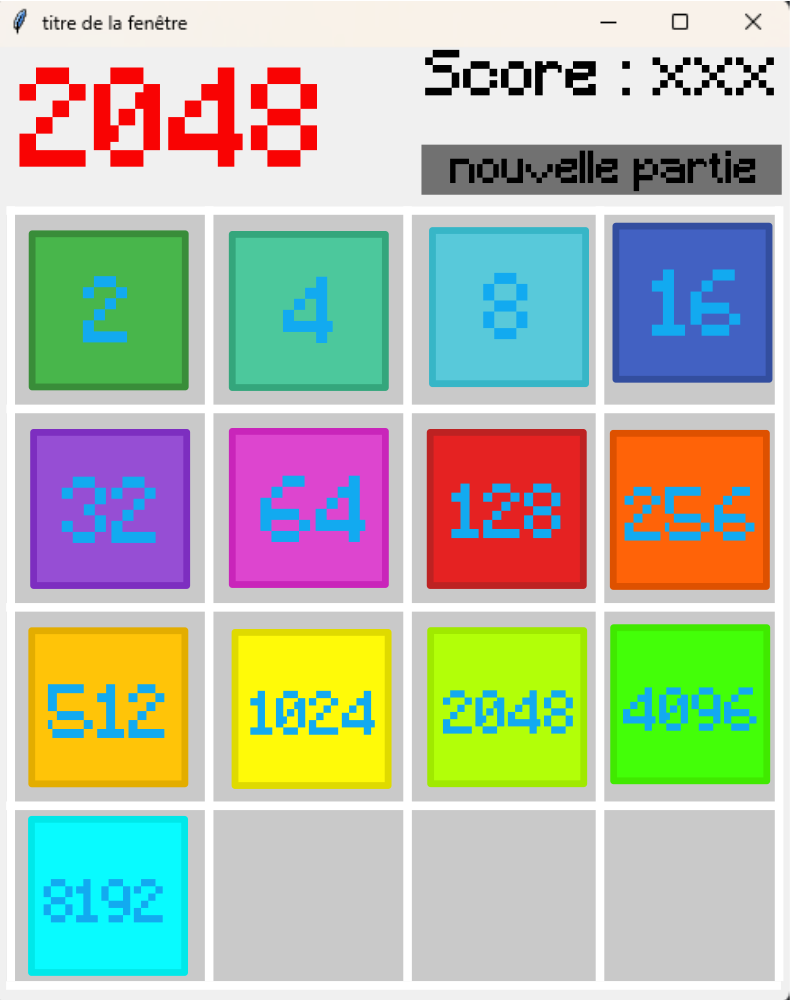
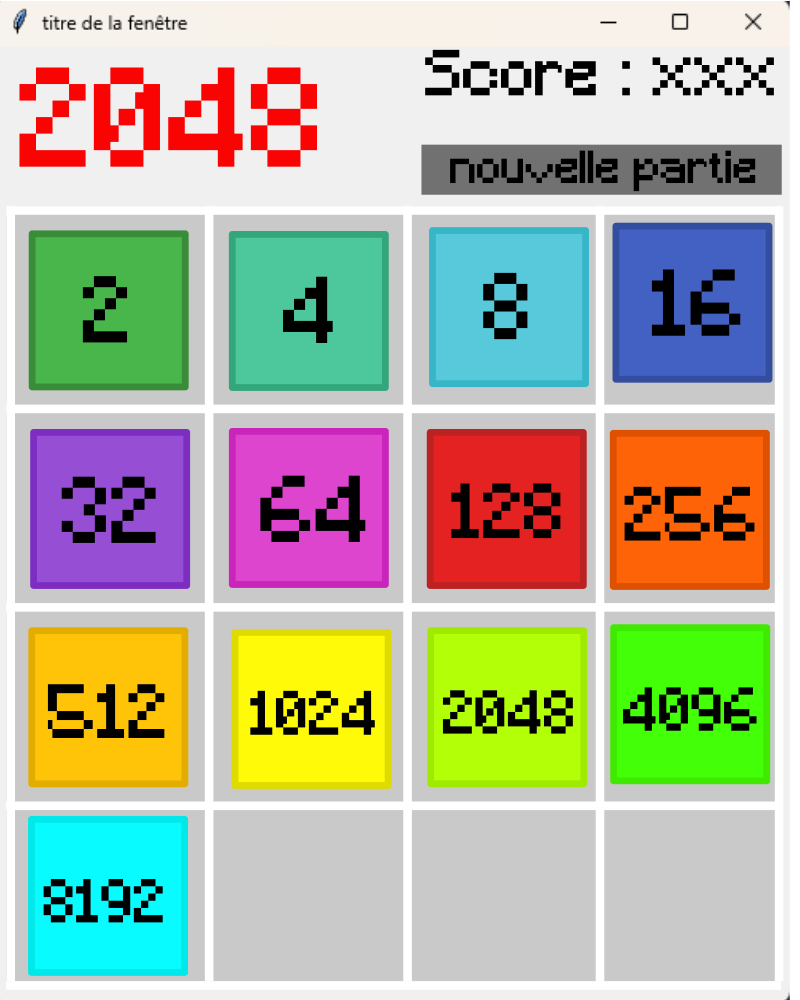
version 1.3

diff --git a/gfx.py b/gfx.py
@@ -1,9 +1,8 @@
 # Graphics of the game
 # Author : Théo Läderach
-# Date : 05.02.2026
-# Version : 1.2
+# Date : 12.02.2026
+# Version : 1.3
 import core
-core.start_game()
 
 from tkinter import *
 import json
@@ -32,6 +31,7 @@ try:
 except:
     DEFAULT_FONT = "Arial"
 
+
 # Function who place the text on the front-end grid 
 # by using the back-end grid and the dictionnary.
 def render_grid_txt():
@@ -50,65 +50,121 @@ def render_grid_color():
             # replace every item in the list using the disctionnary
             visualGridColor[y][x] = color_dict.get(str(core.grid[y][x]), "#FFFFFF")
 
-# Create the Front-end grid referring to the back-end grid
-visualGridColor = core.create_grid(core.side)
-visualGridTxt = core.create_grid(core.side)
+
+def refresh_labels_grid():
+    render_grid_txt()
+    render_grid_color()
+    for line in range(len(visualGridTxt)):
+        for col in range(len(visualGridTxt[line])):
+            background_color,border_color=visualGridColor[line][col]
+            labels[line][col].config(text =visualGridTxt[line][col],
+                                        bg=background_color)
+            labelBackground[line][col].config(bg=border_color)
+            
+
+def refresh_score():
+    score_num_lbl.config(text=core.score)
+
+def refresh_screen():
+    refresh_labels_grid()
+    refresh_score()
 
 
-render_grid_txt() # Initialise the text front-end grid
-render_grid_color() # Initialise the color front-end grid
+def start_game():
+    global visualGridColor, visualGridTxt
+    
+    core.start_game()
 
-dx=5 # horizontal distance between labels
-dy=5 # vertical distance between labels
+    visualGridColor = core.create_grid(core.SIDE,fill=0)
+    visualGridTxt = core.create_grid(core.SIDE,fill=0)
 
-labels = core.create_grid(core.side)
+    render_grid_txt() # Initialise the text front-end grid
+    render_grid_color() # Initialise the color front-end gridgfx.open_windows()
+        
+    open_windows()
 
-main=Tk()
-main.title(txt_dict.get("title","2048"))
-main.geometry("450x550")
+def open_windows():
+    global score_num_lbl,labels,labelBackground
 
+    
+    # Create the Front-end grid referring to the back-end grid
+    
+    dx=5 # horizontal distance between labels
+    dy=5 # vertical distance between labels
 
-top_fr =Frame(main)
-top_fr.pack(side=TOP, fill=X)
+    # Grid of the labels on the screen
+    labels = core.create_grid(core.SIDE, fill=None)
+    labelBackground = core.create_grid(core.SIDE, fill=None)
 
-left_fr = Frame(top_fr)
-left_fr.pack(side=LEFT,padx=30,pady=30,ipady=0,ipadx=0)
-
-title_lbl = Label(left_fr, text=txt_dict.get("title","2048"),font=(DEFAULT_FONT,52,"bold"),fg=color_dict.get("title","#df0000"))
-title_lbl.pack()
-
-
-right_fr = Frame(top_fr)
-right_fr.pack(side=RIGHT, fill=X,padx=30,pady=20,ipady=0)
-
-score_fr = Frame(right_fr)
-score_fr.pack()
-
-score_txt_lbl = Label(score_fr,text="Score : ",font=(DEFAULT_FONT,18))
-score_txt_lbl.pack(side=LEFT)
-
-score_num_lbl = Label(score_fr,text="xxx",font=(DEFAULT_FONT,18,"bold"))
-score_num_lbl.pack(side=RIGHT)
-
-new_btn = Button(right_fr,text="New Game",font=(DEFAULT_FONT,12))
-new_btn.pack()
-
-game_fr = Frame(main, bg="#D0D4D4")
-game_fr.pack(fill=Y, side=BOTTOM, padx=10,pady=10)
-
-# Create the pawn on the windows using the grid
-for line in range(len(visualGridTxt)):
-    for col in range(len(visualGridTxt[line])):
-        background_color,border_color=visualGridColor[line][col]
-        case = Frame(game_fr,bg=border_color)
-        case.grid (row=line+1,column=col,padx=dx,pady=dy)
-        labels[line][col] = Label (case,
-                                    text =visualGridTxt[line][col],
-                                    width=6,
-                                    height=3,
-                                    font=(DEFAULT_FONT, 15),
-                                    bg=background_color)
-        labels[line][col].pack(padx=3,pady=3)
+    main=Tk()
+    main.title(txt_dict.get("title","2048"))
+    main.geometry("450x580")
 
 
-main.mainloop()
+    top_fr =Frame(main)
+    top_fr.pack(side=TOP, fill=X)
+
+    left_fr = Frame(top_fr)
+    left_fr.pack(side=LEFT,padx=30,pady=30,ipady=0,ipadx=0)
+
+    title_lbl = Label(left_fr,
+                       text=txt_dict.get("title","2048"),
+                       font=(DEFAULT_FONT,52,"bold"),
+                       fg=color_dict.get("title","#f90303"))
+    title_lbl.pack()
+
+
+    right_fr = Frame(top_fr)
+    right_fr.pack(side=RIGHT, fill=X,padx=0,pady=0,ipady=0)
+
+    score_fr = Frame(right_fr)
+    score_fr.pack()
+
+    score_txt_lbl = Label(score_fr,
+                          text="Score : "
+                          ,font=(DEFAULT_FONT,18))
+    score_txt_lbl.pack(side=LEFT)
+
+    score_num_lbl = Label(score_fr,
+                          text="xxx",
+                          font=(DEFAULT_FONT,18,"bold"))
+    score_num_lbl.pack(side=RIGHT)
+
+    new_btn = Button(right_fr,
+                     text="New Game",
+                     font=(DEFAULT_FONT,12))
+    new_btn.pack()
+
+    game_fr = Frame(main, 
+                    bg="#D0D4D4")
+    game_fr.pack(fill=Y, side=BOTTOM, padx=10,pady=10)
+
+    # Create the pawn on the windows using the grid
+    for line in range(len(visualGridTxt)):
+        for col in range(len(visualGridTxt[line])):
+
+            background_color,border_color=visualGridColor[line][col]
+
+            labelBackground[line][col] = Frame(game_fr,bg=border_color)
+            labelBackground[line][col].grid(row=line+1,column=col,padx=dx,pady=dy)
+
+            labels[line][col] = Label (labelBackground[line][col],
+                                        text =visualGridTxt[line][col],
+                                        width=5,
+                                        height=3,
+                                        font=(DEFAULT_FONT, 19),
+                                        bg=background_color
+                                        )
+            
+            labels[line][col].pack(padx=5,pady=5)
+
+    main.bind("<KeyRelease-a>",func=core.leftPressed)
+    main.bind("<KeyRelease-Left>",func=core.leftPressed)
+    main.bind("<KeyRelease-w>",func=core.upPressed)
+    main.bind("<KeyRelease-Up>",func=core.upPressed)
+    main.bind("<KeyRelease-d>",func=core.rightPressed)
+    main.bind("<KeyRelease-Right>",func=core.rightPressed)
+    main.bind("<KeyRelease-s>",func=core.downPressed)
+    main.bind("<KeyRelease-Down>",func=core.downPressed)
+
+    main.mainloop()

diff --git a/core.py b/core.py
@@ -1,19 +1,40 @@
 # Mechanics of the game
 # Author : Théo Läderach
-# Date : 05.02.2026
-# Version : 1.1
+# Date : 12.02.2026
+# Version : 1.3
 
-def create_grid(side):
+
+SIDE = 4
+
+score=0
+
+def create_grid(side, fill=None):
+    """
+    Create a square grid made of list and fill with the parameter fill
+    code come from another project (MA-24)
+    """
     grid = []
-    for i in range(side):
+    for line in range(side):
         row = []
-        for j in range(side):
-            row.append(0)
+        for col in range(side):
+            row.append(fill)
         grid.append(row)
 
     return grid
 
 def spawn_rdm(grid,side):
+    """
+    Function who spawn randomly the number 2 or 4 on the empty case
+    """
+    empty_case = False
+    for line in range(side):
+        for col in range(side):
+            if grid[line][col] == 0:
+                empty_case=True
+
+    if not empty_case:
+        print("Any empty case")
+        return False
     from random import randint
 
     rdmX = randint(0,side-1)
@@ -23,20 +44,58 @@ def spawn_rdm(grid,side):
         num = 2
     else:
         num = 1
+    
+
     while grid[rdmX][rdmY]:
         rdmX = randint(0,side-1)
         rdmY = randint(0,side-1)
-    return rdmX,rdmY,num
+    print("empty case at",rdmX,rdmY)
+    grid[rdmX][rdmY]=num
+    return True
 
 def start_game():
+    """
+    creation of the grid and sapwn the default number
+    """
     global grid
-    grid = create_grid(side)
+    # Turn the TEST_MODE to True to see the color of all number
+    TEST_MODE = False
 
-    default_pawn = 2
-    for i in range(default_pawn):
-        rdmX,rdmy,num = spawn_rdm(grid,side)
-        grid[rdmX][rdmy]=num
-    print(grid)
+    if TEST_MODE:
+        grid = [[1, 2, 3, 4],
+                [5, 6, 7, 8],
+                [9, 10, 11, 12],
+                [13, 0, 0, 0]]
+    else:
+        grid = create_grid(SIDE, fill=0)
 
-side = 4
+        default_pawn = 2
+        for i in range(default_pawn):
+            spawn_rdm(grid,SIDE)
+        print(grid)
+    
 
+
+def leftPressed(event):
+    global score
+    if spawn_rdm(grid,SIDE):
+        score += 1
+        
+
+    from gfx import refresh_screen
+    refresh_screen()
+
+    print("refresh")
+    
+
+
+def upPressed(event):
+    print("up is pressed")
+
+
+def rightPressed(event):
+    print("right is pressed")
+
+
+def downPressed(event):
+    print("down is pressed")

diff --git a/main.py b/main.py
@@ -1,7 +1,10 @@
 #  Main file
 # Author : Théo Läderach
-# Date : 05.02.2026
+# Date : 12.02.2026
 # Version : 1.0
 
 # Import of the graphics file
 import gfx
+
+gfx.start_game()
+
